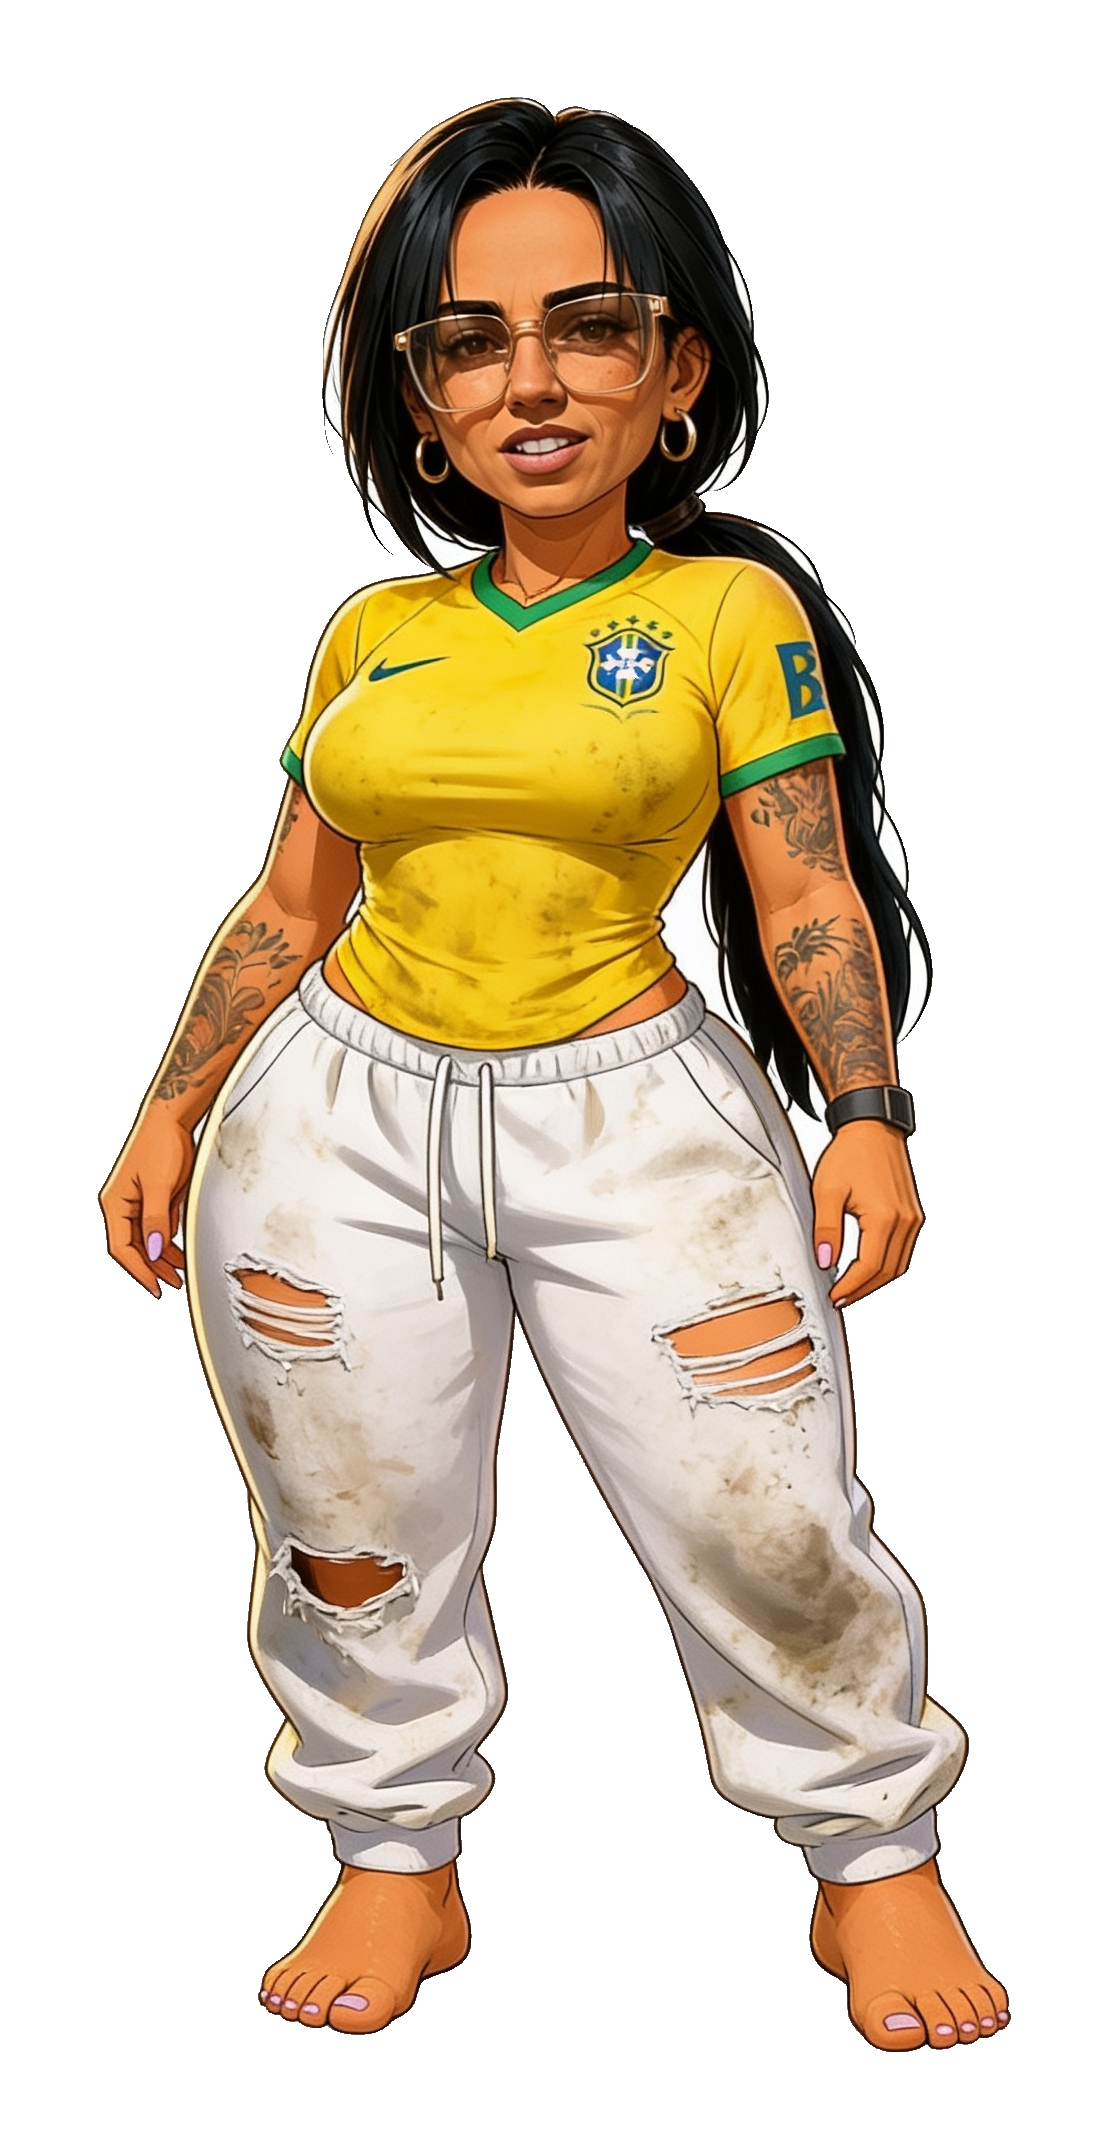
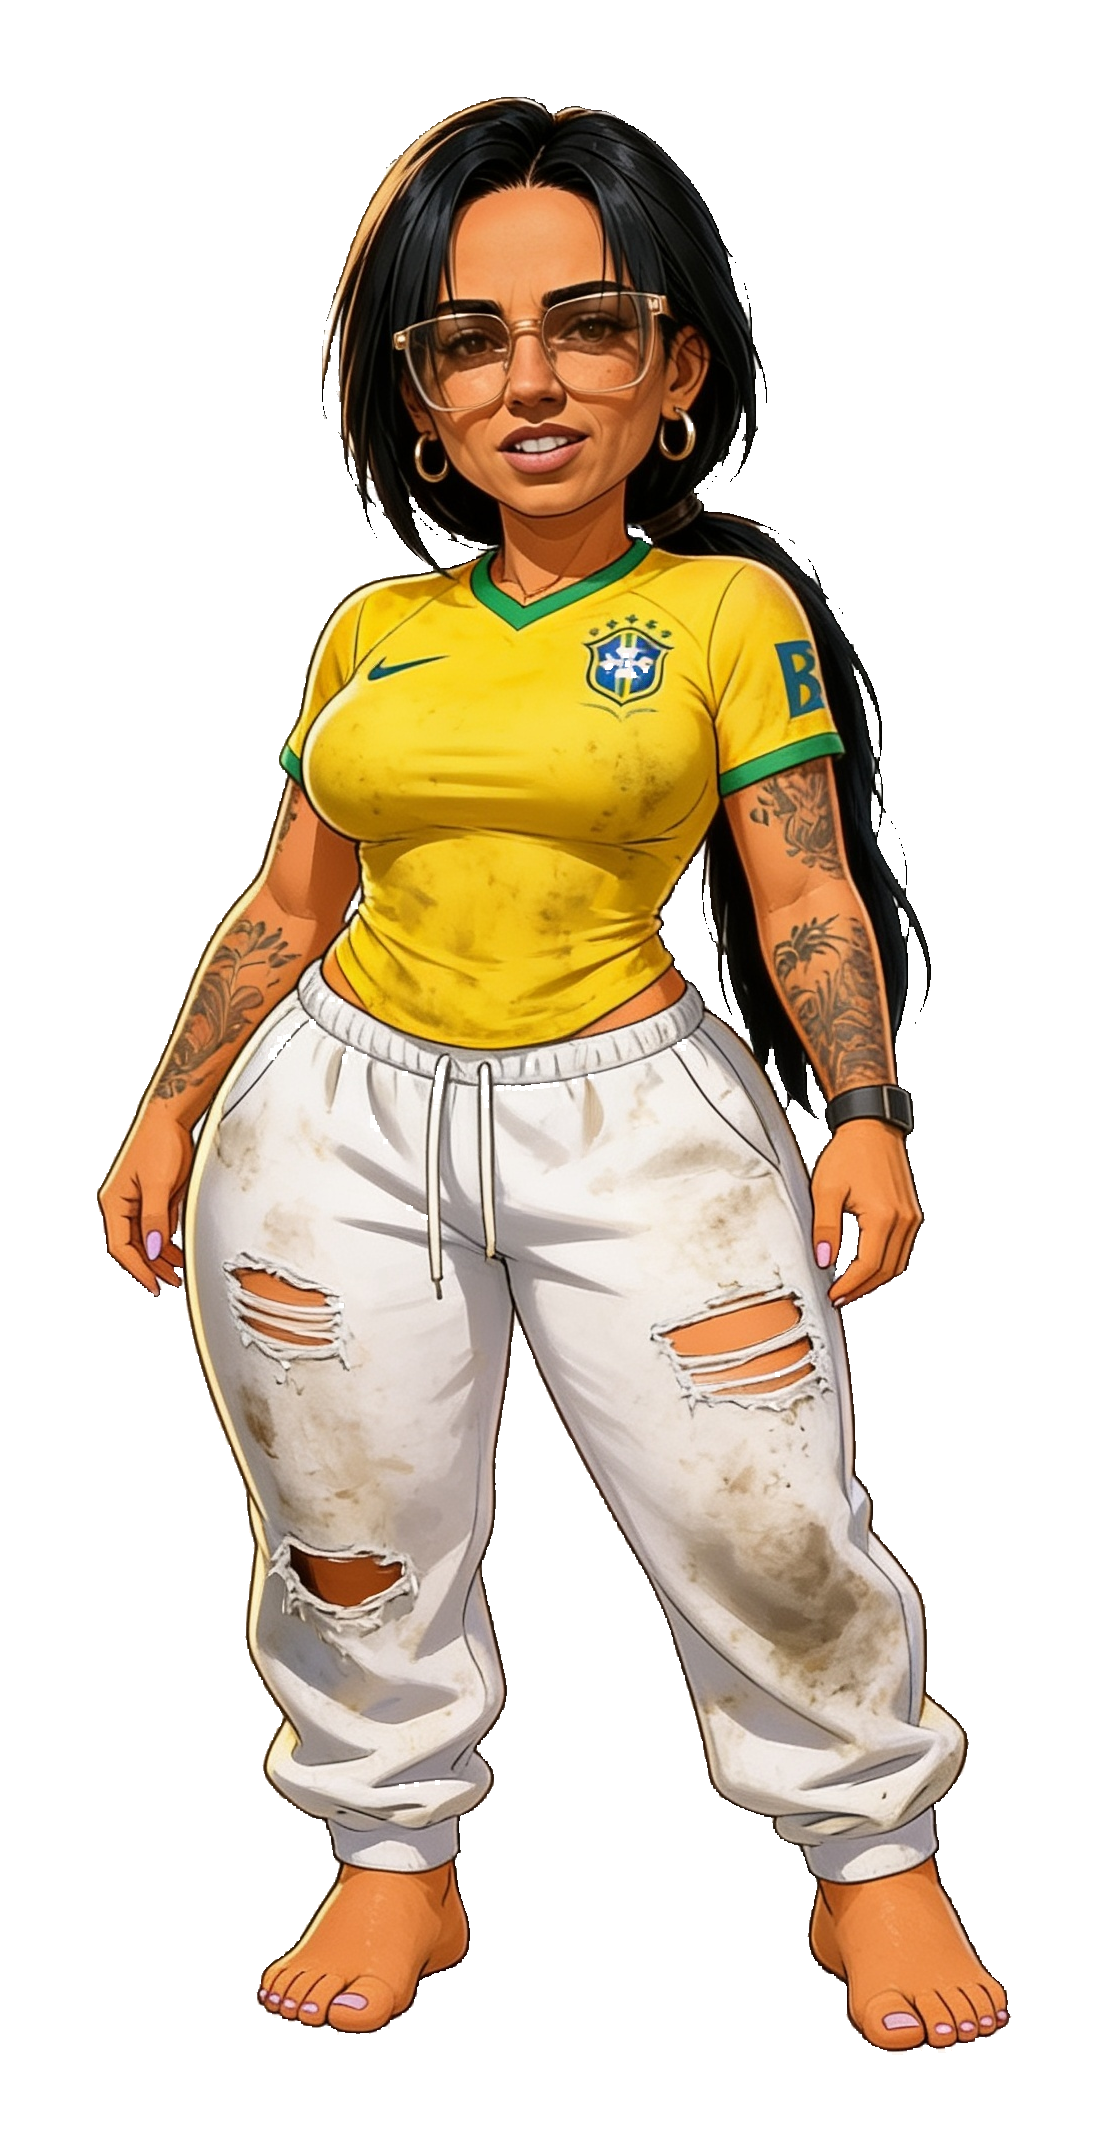
Roxy: pure-white key (kills arm-gap whites) + walking feet/leg blur
- Re-keyed public/spirits/roxy_valente.png with a global neutral-white key
  (bg + enclosed arm/leg gaps are pure white ~253; her dirty off-white sweats
  peak ~222, so they survive) plus a 2px matte erode. Removes the halo AND the
  white trapped between her arms and torso that edge flood-fill couldn't reach.
- Added a Gaia-style feet/leg motion blur: while a character is moving, trail
  two translucent ghost copies of the body behind the travel direction, clipped
  to the feet + lower legs. Idle stays crisp and blur-free.

Verified: build clean; mobile Playwright shows clean edges, the walking blur
while moving, and no console errors.

Claude-Session: https://claude.ai/code/session_01MzT91WcyqemncboiCffQLx

diff --git a/src/game/renderer.ts b/src/game/renderer.ts
@@ -699,17 +699,37 @@ export class HollywoodRenderer {
       const targetH = 84; // bigger, Gaia-style — shows the sprite detail
       const w = targetH * (sprite.naturalWidth / sprite.naturalHeight);
       const flip = s.soul.id === this.controlledId ? this.facingLeft : s.dir < 0;
+      const top = y - targetH + 12;
       const prev = ctx.imageSmoothingEnabled;
       ctx.imageSmoothingEnabled = true; // smooth downscale — these are painted, not pixel art
       ctx.imageSmoothingQuality = "high";
-      ctx.save();
-      if (flip) {
-        ctx.translate(s.x, 0);
-        ctx.scale(-1, 1);
-        ctx.translate(-s.x, 0);
+
+      const drawAt = (cx: number, alpha: number) => {
+        ctx.save();
+        ctx.globalAlpha = alpha;
+        if (flip) {
+          ctx.translate(cx, 0);
+          ctx.scale(-1, 1);
+          ctx.translate(-cx, 0);
+        }
+        ctx.drawImage(sprite, cx - w / 2, top, w, targetH);
+        ctx.restore();
+      };
+
+      // Gaia-style feet/leg blur: while moving, trail translucent ghost copies of the
+      // lower body behind the direction of travel, clipped to the feet + lower legs.
+      if (s.moving) {
+        const moveSign = s.soul.id === this.controlledId ? (this.facingLeft ? -1 : 1) : s.dir;
+        ctx.save();
+        ctx.beginPath();
+        ctx.rect(s.x - w, y + 12 - targetH * 0.42, w * 2, targetH * 0.46);
+        ctx.clip();
+        drawAt(s.x - moveSign * 3, 0.22);
+        drawAt(s.x - moveSign * 6, 0.1);
+        ctx.restore();
       }
-      ctx.drawImage(sprite, s.x - w / 2, y - targetH + 12, w, targetH);
-      ctx.restore();
+
+      drawAt(s.x, 1);
       ctx.imageSmoothingEnabled = prev;
       return;
     }
